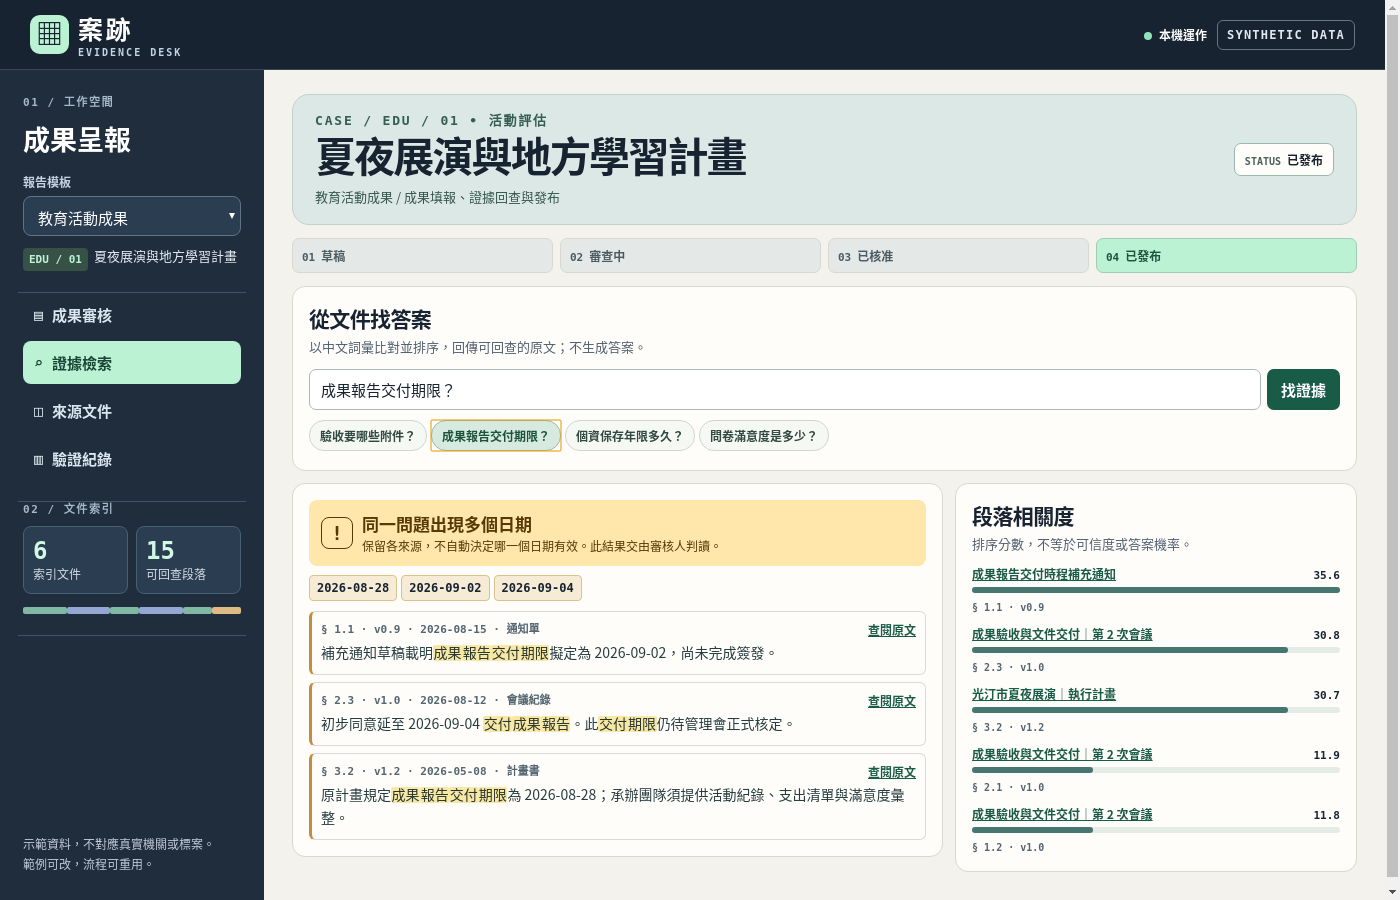
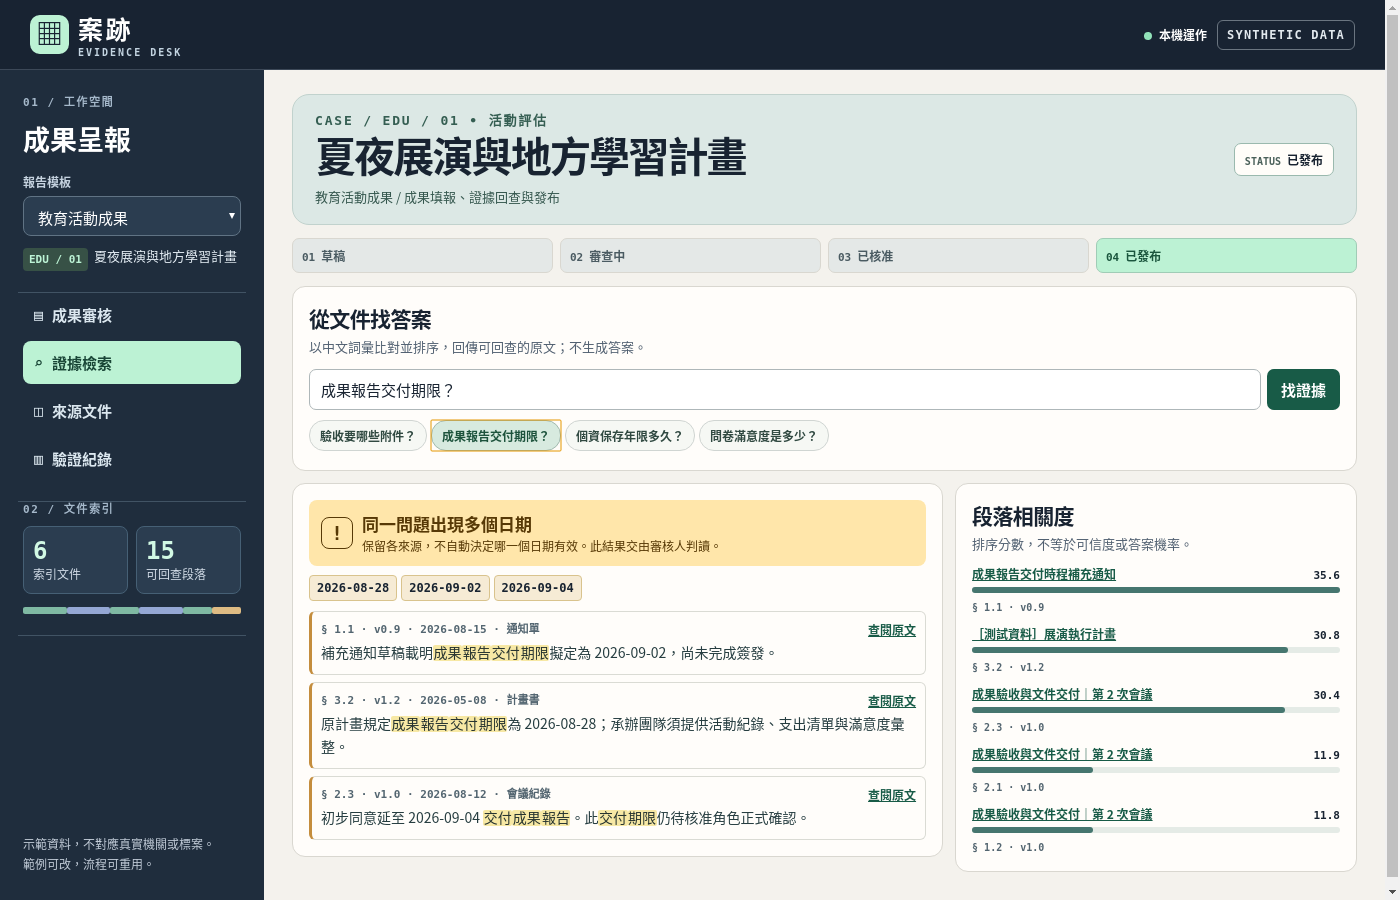
Document formal demonstration requirements and verification evidence

Changed region(s): [[0.215, 0.7467, 0.6757, 0.9333], [0.6757, 0.7467, 0.8293, 0.7778], [0.6757, 0.6844, 0.8293, 0.7156]]

diff --git a/corpus.js b/corpus.js
@@ -1,13 +1,13 @@
 // Original synthetic documents written for this demo. Paragraph IDs are stable citations.
 export const corpus = [
- {id:'plan', icon:'◈', kind:'計畫書', title:'光汀市夏夜展演｜執行計畫', date:'2026-05-08', version:'v1.2', paragraphs:[
+ {id:'plan', icon:'◈', kind:'計畫書', title:'［測試資料］展演執行計畫', date:'2026-05-08', version:'v1.2', paragraphs:[
  ['§ 2.1','展演活動目標為串聯公共空間及地方創作者，規劃兩次週末市集與三場晚間演出。'],
  ['§ 3.2','原計畫規定成果報告交付期限為 2026-08-28；承辦團隊須提供活動紀錄、支出清單與滿意度彙整。'],
  ['§ 4.1','場地組負責舞台撤場與公共區域巡查，交接前須記錄設備點交與垃圾清運狀態。']]},
  {id:'review', icon:'◉', kind:'會議紀錄', title:'成果驗收與文件交付｜第 2 次會議', date:'2026-08-12', version:'v1.0', paragraphs:[
  ['§ 1.2','成果報告驗收須檢附三類附件：活動紀錄照片、支出清單、滿意度調查彙整表。'],
  ['§ 2.1','承辦團隊先上傳 PDF 與可編輯檔，再由專案窗口核對成果報告頁碼及附件索引。'],
- ['§ 2.3','初步同意延至 2026-09-04 交付成果報告。此交付期限仍待管理會正式核定。']]},
+ ['§ 2.3','初步同意延至 2026-09-04 交付成果報告。此交付期限仍待核准角色正式確認。']]},
  {id:'memo', icon:'◆', kind:'通知單', title:'成果報告交付時程補充通知', date:'2026-08-15', version:'v0.9', paragraphs:[
  ['§ 1.1','補充通知草稿載明成果報告交付期限擬定為 2026-09-02，尚未完成簽發。'],
  ['§ 1.2','本通知未核定前不得據以排定最終交付日；請窗口與主辦團隊確認。']]},

diff --git a/workflow.js b/workflow.js
@@ -16,7 +16,7 @@ export const templates={
  policy:{
   name:'施政計畫成果', project:'溪畔慢行改善計畫', series:'POL / 02', tag:'跨單位管考',
   fields:[
-   ['unit','主責單位','示範市公共空間組','text'],
+   ['unit','主責單位','測試單位 A','text'],
    ['period','填報期別','2026 第 3 季','text'],
    ['completion','工程成果（公尺）','320','number'],
    ['summary','執行與風險摘要','完成首批慢行標線與雨水設施巡查；第二階段排程仍待確認。','textarea'],

diff --git a/tests/workflow.test.js b/tests/workflow.test.js
@@ -6,8 +6,10 @@ import {createEngine} from '../engine.js';
 test('submit, return with reason, amend, approve, publish and export are auditable',()=>{
  let r=initial('education');
  assert.throws(()=>move(r,'approve'));
+ assert.throws(()=>move(r,'publish'));
  r=move(r,'submit');
  assert.throws(()=>move(r,'return'));
+ assert.throws(()=>move(r,'publish'));
  assert.throws(()=>edit(r,r.fields));
  r=move(r,'return','補上活動照片');
  r=edit(r,{...r.fields,sessions:'6'});

diff --git a/README.md b/README.md
@@ -1,45 +1,40 @@
-# 案跡｜公共成果填報與證據工作台
+# 案跡｜機關成果填報與佐證審核方案
 
-填報人依模板交件，審核人可要求補正或核准；發布前可查找佐證，逐段回看原文，發布後預覽只呈現允許公開的欄位。**這是可執行的自製作品，機關、專案、資料均為虛構，非政府委託或驗收實績。**
+**公開需求背景：**原民會的公開需求說明書指出分散填報及跨階段控管的困難；臺中市公布的作業規範有年度計畫審查修正及績效報告提送。案跡由這些公開流程出發，展示填報、審核、證據回查與公開版預覽如何銜接。
 
-![教育活動案例：實際調整場次後發布，保留退回原因與事件軌跡](assets/01-workflow.png)
+![實機畫面：補正後核准發布，保留審核軌跡，公開版依欄位白名單呈現](assets/01-workflow.png)
 
-| 查詢遇到日期衝突 | 手機：證據不足時不填答案 |
+> **展示範圍：**無委託機關或指定需求方。案例記錄、測試單位代碼及文件內容均為合成；下列功能是本方案自行定義的演示需求，不代表機關委託、上線或正式驗收。
+
+## 需求與交付範圍
+
+| 需求 ID | 機關要解決的問題 | 展示交付 |
+| --- | --- | --- |
+| FR-01 | 不同業務須提供不同填報欄位 | 施政計畫／教育活動模板，欄位、必填、公開範圍及佐證集分開 |
+| FR-02 | 填報、補正和核准須可追溯 | 送審、附理由退回、補正再送審、核准；保留狀態、示意角色、時間及意見 |
+| FR-03 | 核准不等於公開，內外部資料要分流 | 核准後才能切到「已發布」示範狀態；公開版依白名單呈現，內部 JSON 另行匯出 |
+| FR-04／05 | 文件說法要能回查，找不到或日期不一致時不應擅自判定 | 原文、段落、版本、日期、命中高亮；日期衝突並列，證據不足不生成答案 |
+| IF-01 | 上游品管結果可作佐證，不複製原始資料 | 匯入彙總 JSON，驗證型別、合計、模板及欄位白名單，建立可搜尋的佐證段落 |
+
+完整的[需求規格](docs/REQUIREMENTS.md)列明角色、資料流、配置點和正式導入責任；[驗證／驗收矩陣](docs/ACCEPTANCE.md)列明各需求的操作、預期結果及證據。正式版的 SSO、權限、受控發布、不可任意改寫的稽核與備援不在展示範圍。
+
+| 日期不一致：並列原文，不擅自採用 | 證據不足：不補寫答案 |
 | --- | --- |
-| ![實際畫面：三份文件對同一交付期限記載不同日期，每份都可回查](assets/02-conflict.png) | <img src="assets/03-mobile-gap.png" alt="實際手機寬度畫面：查無個資保存年限，沒有生成答案" width="270"> |
+| ![實機畫面：三份文件所載日期不同，逐項回查](assets/02-conflict.png) | <img src="assets/03-mobile-gap.png" alt="實機手機寬度畫面：查無個資保存年限，未生成答案" width="270"> |
 
-## 兩分鐘實機演示
+## 實機操作與驗證
 
 ```sh
 python3 -m http.server 8765 --bind 127.0.0.1
 # 開啟 http://127.0.0.1:8765/
+npm test
+npm run evaluate
 ```
 
-1. **補正與追溯**：送交審查 → 留下原因再退回 → 修改場次 → 補正後再送審。重整可回復已儲存的值。[退回時畫面](assets/04-returned.png)
-2. **查找證據**：查「驗收要哪些附件？」查看具段落、版本與日期的原文；試「成果報告交付期限？」看並存日期，再試「個資保存年限多久？」看證據不足時的處理。
-3. **核准與公開**：核准 → 發布示範版本。檢閱欄位白名單形成的公開版；匯出 JSON 是內部交接材料，保留完整欄位、佐證補充與狀態紀錄，不適合直接公開。
-4. **切換情境**：左側換成「施政計畫成果」；主責單位、期別、工程成果取代教育活動欄位，並改用獨立文件集、草稿與公開白名單。也可於草稿或補正時貼上合成原文。
-5. **跨系統交接**：在施政模板匯入另一個工作台[「合流」](https://github.com/JWJProjects/public-data-quality-ai)匯出的[品管彙總](examples/qa-evidence.json)，搜尋「資料品質檢查」可回查總筆數與各項結果。[實際匯入後畫面](assets/06-integrated.png)
+1. **填報到公開：**先送審，嘗試不填原因退回，再補寫原因、調整場次並重送。核准後切到發布預覽；比較公開版與內部 JSON。[退回畫面](assets/04-returned.png)
+2. **審查佐證：**試查「驗收要哪些附件？」「成果報告交付期限？」「個資保存年限多久？」；開啟來源檢查段落、版本及日期。
+3. **整合與配置：**切換施政模板，從來源文件匯入[合流](https://github.com/JWJProjects/public-data-quality-ai)的[合成品管彙總](examples/qa-evidence.json)，搜尋「資料品質檢查」。[介面契約](INTEGRATION.md)｜[實機匯入](assets/06-integrated.png)
 
-## 配置、整合與交付邊界
+**展示驗證：**8 項單元測試、22 個實機步驟；合成集 12/12 狀態判定、9/9 有標註題的必要原文皆在前三。[評估畫面](assets/05-evaluation.png)。這是小樣本結果，不代表機關資料上的準確率或正式驗收。檢索為本機 BM25 與規則，無生成式模型，分數不等於可信度。
 
-| 機關可能要調整的項目 | 本版可演示 | 正式導入要對接 |
-| --- | --- | --- |
-| 填報規格、公開範圍 | `workflow.js` 的欄位、必填、公開白名單與範例資料 | 機關代碼、欄位字典、受限資料規則 |
-| 作業節點、查核 | 狀態轉換表、補正原因、模擬角色、時間與 JSON 軌跡 | SSO、角色權限、不可竄改稽核、備份與復原 |
-| 上游資料 | 貼上文字佐證；[品管彙總 JSON 介面](INTEGRATION.md) | 文件儲存、PDF/OCR、實場資料與交換 API |
-| 證據判讀 | 中文單／雙字詞 BM25、規則增權、原文、高亮、日期衝突與不足分流 | 以機關的去識別資料重建驗證集；按正式文件效力和情境人工確認 |
-
-可交接的內容：原始碼、兩組合成模板、使用與測試指令、JSON 介面，以及實際截圖。**本版無伺服器帳號、外部 API 或生成式模型**。檢索分數不代表可信度；相近問法可能漏找或誤找，日期檢查只覆蓋已檢出的格式，不會裁決文件效力。資料存放在瀏覽器，不能當正式文件庫。
-
-## 驗證
-
-```sh
-npm test                     # Node 20+，無 npm 套件需安裝
-npm run evaluate             # 逐題輸出狀態與必要證據
-python tests/browser_smoke.py --capture  # 選用 Playwright + Chromium
-```
-
-合成教育活動測試：**12/12 狀態判定、9/9 題必要引用皆在前三**。這是手工小樣本，不是泛化準確率。[實機測試紀錄畫面](assets/05-evaluation.png)。另以 Qt WebEngine 在本機實跑 **22 個瀏覽器步驟**，包括退回必填、重整、公開版與下載內容、原文回查、衝突與不作答、切換模板及匯入另一工作台實際輸出的合成彙總。上列 PNG 即從該瀏覽器擷取。
-
-呈現方式參考公開的 [原民會評選資料](https://www.cip.gov.tw/data/bid/202604/T-25631375.pdf?c=1F3AF1A79C1A38425E85BF3C0BF38120&fn=6E2132260E059F3FEF3398801A45C73C&s=C0DAF6E2A93658F9) 與 [林試所審查須知](https://www.tfrin.gov.tw/redirect_files.php?file_name=APlNxDCEL605wNc2DoWGEqualFWYKWcdnr1delQpQQz8XNl9ex&id=65728)，以使用情境、整合邊界和可重跑驗證說明能力；不代表符合任何特定標案。
+[公開來源與各需求的連結](docs/REQUIREMENTS.md#4-公開來源與本方案的關聯)；所引機關與本展示無委託、合作、採用或驗收關係。

diff --git a/docs/REQUIREMENTS.md b/docs/REQUIREMENTS.md
@@ -1,0 +1,53 @@
+# 需求規格｜案跡機關成果填報與佐證審核
+
+**文件定位：**將公開流程轉為可操作的演示需求，並以合成記錄測試，沒有委託機關、需求方或客戶。填報、審核及發布均為通用功能角色，不代表任何機關的實際人員。正式導入前才須與採用單位確定作業權責、欄位、時程、資安基準及驗收條件。
+
+## 1. 作業目標與角色
+
+| 角色 | 作業責任 | 產出 |
+| --- | --- | --- |
+| 填報人 | 選模板、填寫必填欄位、補附佐證、送審；留意退回原因 | 草稿、送審／補正版本、佐證 |
+| 審核人 | 對照原文、確認內容與公開範圍、寫明補正原因或核准 | 審查決定與理由、簽核軌跡 |
+| 發布人 | 確認核准狀態及對外欄位、執行發布 | 公開版預覽；正式環境另需發布權限與目的端 |
+| 資訊與業務窗口（正式導入） | 資訊窗口訂介接與資安規格；業務窗口核定欄位及流程與評估樣本 | 介接清單、角色矩陣、欄位字典、驗收基準 |
+
+**主路徑：**草稿 → 審查中 → 已核准 → 已發布。  
+**補正路徑：**審查中 → 已退回（原因必填）→ 補正後再送審。  
+展示模式不驗證實際身分；示意角色不構成權限控管或核准憑證。
+
+## 2. 需求基線
+
+| ID | 展示版功能基線 | 正式導入須確認或實作 |
+| --- | --- | --- |
+| FR-01 模板 | 兩套模板獨立維護草稿、來源、必填與公開欄位。數字欄位驗證非負整數。 | 各處室欄位字典、機關代碼、期別規則、多份案件生命週期、模板版本／異動通知 |
+| FR-02 流程 | 審查期不可編輯；退回理由必填；每次狀態轉換含角色、時間、理由及前後狀態。 | SSO、最小權限、審核與發布職責分離、會辦／代理、不可任意改寫的伺服器端稽核 |
+| FR-03 交付與公開 | 僅核准後可發布示範；預覽依模板公開白名單顯示，不帶審查意見或原始佐證。內部 JSON 另含狀態、欄位、事件、使用者補附佐證，不作對外資料。 | 實際發布介面與權限、資料分級、公開前覆核、遮蔽策略、撤回更正、封存與保留政策 |
+| FR-04 可查核證據 | 從模板文件與補附文字建索引；中文單字／雙字詞 BM25 排序，顯示版本、日期、段落及摘錄。 | 文件進件、權限與版本治理；PDF/OCR、可依角色限制檢索；實場證據測試與持續抽測 |
+| FR-05 失敗分流 | 同一交付期限檢出多個日期則並列原文；證據不足或複合問句不給結論。 | 機關須訂文件有效性、人工確認責任及錯誤回報路徑；依實場資料調整門檻及測量漏找／誤找 |
+| IF-01 彙總介接 | 只收合成標記與允許的計數；檢查合計、模板、欄位及檔案上限後，轉為固定措詞的佐證段落。不讀原始列。 | 雙方確認資料交換約定、介接權限、來源簽章／完整性、例外及留存 |
+| NFR-01 操作與資料環境 | 以瀏覽器本機執行、無外部 API；支援 390px 寬度的例示畫面。重新整理可回復已儲存狀態。 | 資安掃描、無障礙檢測、效能／可用性、資料庫、備份還原、監控、正式訓練與維運 |
+
+## 3. 配置、介接及交付
+
+- **配置點：**[`workflow.js`](../workflow.js) 提供模板欄位、初始值、公開白名單與狀態轉換。[`corpus.js`](../corpus.js) 及模板設定提供合成來源。修改規則後以測試保護欄位、流程與索引邊界。
+- **輸入／輸出：**使用者表單、合成文字、[品管彙總 JSON](../INTEGRATION.md) → 報告、證據段落與狀態事件 → 公開版預覽與內部 JSON。展示版資料停留在同一瀏覽器；沒有跨人同步或正式交換 API。
+- **展示交付：**原始碼、二套合成案例、匯出／匯入樣本及操作方法、六張實拍與可重跑測試。詳見[驗證／驗收矩陣](ACCEPTANCE.md)。
+
+| 建議里程碑（非承諾時程） | 業務／資訊窗口責任 | 實作者交付責任 |
+| --- | --- | --- |
+| 需求定版 | 確認角色、欄位、公告邊界、樣本與驗收標準 | 欄位字典、流程圖、風險及需求追溯表 |
+| 測試環境 | 驗證介接帳號、去識別測試資料、權限與限制 | 建置與部署文件、介面契約、測試報告、資安修正紀錄 |
+| 使用者驗證與移交 | 指派參與者、判定測試結果及缺失處置 | 操作／維運手冊、教育訓練、備份還原演練紀錄、版本交付清單 |
+
+展示版不接收實際機關個資或機敏資料；正式範圍以後續核定文件為準。
+
+
+## 4. 公開來源與本方案的關聯
+
+| 公開資料 | 原文件能支持的背景 | 本方案衍生的展示假設 |
+| --- | --- | --- |
+| [原民會《工程全生命週期智慧化管理系統建置》需求說明書，壹、參一（二）（三）](https://www.cip.gov.tw/data/bid/202604/T-27356855.pdf?c=1F3AF1A79C1A38425E85BF3C0BF38120&fn=0942F6A1194138752CFE2496F8B62D673B91B9DF71659F0C&s=1C2E0A875B7F0125) | 分散填報不易跨階段控管；公開採購文件列出填報、審查進度、成果核對和欄位驗證。 | FR-01、FR-02、IF-01 用簡化模板及合成摘要展示表單驗證與作業銜接；未實作原案指定系統或資料介接。 |
+| [《臺中市政府所屬各機關施政績效管理要點》第四至七點](https://law.taichung.gov.tw/LawContent.aspx?id=GL001619&media=print) | 年度計畫草案經審查後修正及彙整；績效報告依期提送並逐項分析成果。兩項是不同作業。 | FR-01、FR-02 映射成可重用的欄位與送審補正範例；非該市流程重製。 |
+| [原民會同案《廠商評選須知》評選評分表](https://www.cip.gov.tw/data/bid/202604/T-25631375.pdf?c=1F3AF1A79C1A38425E85BF3C0BF38120&fn=6E2132260E059F3FEF3398801A45C73C&s=C0DAF6E2A93658F9) | 可行性及執行進度與人力配置，與履約實績分開列為評選事項。 | 本案分列可測交付與正式導入責任，從未將示範聲稱為履約實績。 |
+
+FR-03 的公開預覽、FR-04／FR-05 的原文檢索與失敗分流，是本方案自訂的設計與安全界線；上述來源沒有委託或背書，也沒有要求本展示採行這些做法。

diff --git a/docs/ACCEPTANCE.md b/docs/ACCEPTANCE.md
@@ -1,0 +1,28 @@
+# 驗證／驗收矩陣｜案跡
+
+**如何讀這份文件：**「已測」指合成案例的本機驗證，不是正式 UAT 或履約驗收。正式導入需由機關以核定需求、實際權限、正式環境與獨立測試資料驗證；未實作項目不得填成已通過。
+
+## 1. 展示功能與證據
+
+| 測試 ID／需求 | 操作 | 預期結果 | 已取得證據 |
+| --- | --- | --- | --- |
+| T-01／FR-01 | 由教育案件切到施政案件；輸入無效數字；切回原案件 | 欄位與文件集不同；不合格式不得提交；原案件狀態不受切換改變 | 單元測試；實機確認模板切換、來源不同及原狀態不變 |
+| T-02／FR-02 | 送審後先空白退回，再填補正原因；修改場次並重整，然後重送與核准 | 無理由不得退回；退回才可修改；已存內容重整後仍在；稽核事件依序呈現 | 單元與實機；[退回畫面](../assets/04-returned.png) |
+| T-03／FR-03 | 核准前嘗試發布；核准後發布並匯出 JSON | 核准前不得發布；預覽不含審查意見／補充佐證；內部 JSON 有狀態、修改後場次與六筆事件 | 單元與實機；[發布後畫面](../assets/01-workflow.png)／擷取實際下載內容 |
+| T-04／FR-04 | 依問題檢視摘錄、版本及原文段落；另新增一份合成問卷文字再查 | 可定位對應段落；更新索引後能找到新原文，而非固定回應 | 實機原文定位與重索引；[檢索評估](../assets/05-evaluation.png) |
+| T-05／FR-05 | 查「成果報告交付期限？」及「個資保存年限多久？」 | 並列三個不同日期，不選最終值；後一題無證據時不顯示答案 | 單元與實機；[日期衝突](../assets/02-conflict.png)、[證據不足](../assets/03-mobile-gap.png) |
+| T-06／IF-01 | 匯入[合流實際匯出的合成摘要](../examples/qa-evidence.json)，再查「資料品質檢查」；另測無效合計、模板或額外欄位 | 摘要可回查 18／13／1／4；無效格式拒絕，不收原始列 | 成功路徑實機、拒絕路徑單元；[跨案介接畫面](../assets/06-integrated.png) |
+| T-07／NFR-01 | 以 390 px 寬度檢視證據不足畫面 | 主要區塊可閱讀且無橫向溢位 | 實機；[手機寬度畫面](../assets/03-mobile-gap.png)，非完整無障礙稽核 |
+
+**重跑方式：**`npm test` 執行 8 項單元測試；`npm run evaluate` 以合成 12 題執行逐題評估；另附 [Qt WebEngine 步驟與擷取腳本](../tests/qt_webengine_capture.py)、[可選 Playwright 煙霧測試](../tests/browser_smoke.py)。[實機紀錄](../assets/qt-smoke-status.json)為 22 個腳本步驟。原文指標的 9 題只涵蓋有標註原文的問題；不把「證據不足」算作命中。
+
+## 2. 正式導入驗收前必補
+
+| 驗收閘門 | 可檢驗的應交證據 | 展示狀態 |
+| --- | --- | --- |
+| 權限與稽核 | 機關核定角色矩陣、真實登入、跨角色／跨單位隔離、稽核完整性測試 | 未實作正式權限或稽核庫 |
+| 資料與介接 | 核定欄位字典、資料分類、正式介面契約、身分驗證與錯誤處理測試 | 僅實測本機合成彙總，無正式 API |
+| 公開、資安與維運 | 使用核定公開欄位做實際發布、撤回與還原演練；掃描與缺失處理、備份復原、操作訓練紀錄 | 未實作，不視為通過 |
+| 檢索品質與實務準則 | 機關提供獨立測試集與權責規則，報告誤找、漏找、證據不足、衝突與人工覆核效果 | 只有合成資料自測，不可外推 |
+
+正式門檻、缺失等級及簽核人由機關在測試前核定。驗收結果應紀錄版本、前置資料、執行人、實際結果、證據、例外及複驗情況。
